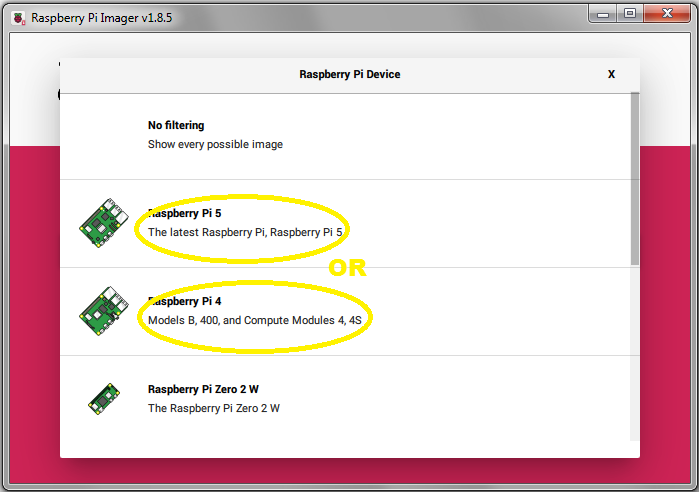
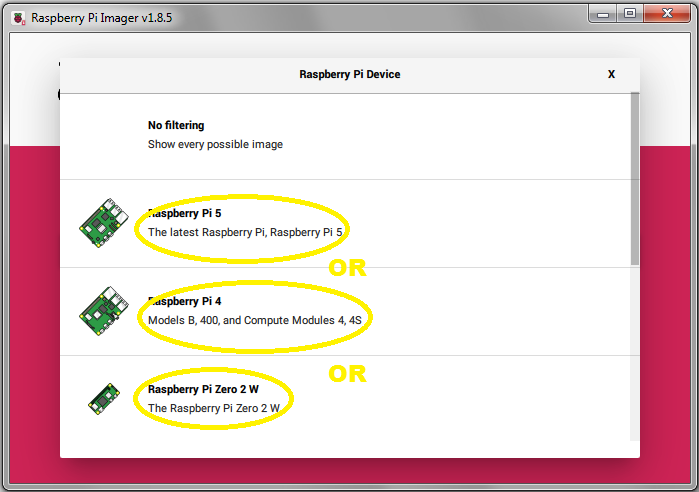
Updated to cover also RPI Zero 2W

Changed region(s): [[0.1803, 0.7317, 0.4206, 0.8841], [0.4506, 0.7317, 0.5408, 0.7927]]

diff --git a/README.md b/README.md
@@ -1,6 +1,6 @@
 # Kobra Unleashed
 
-This project is a step by step guide how to setup modified version of the original project Kobra Unleashed on a Raspberry Pi 4 or 5 (referred as RPI in this guide). The same can be used on almost all Debian based Linux host machines. The original project Kobra Unleashed can be found [here](https://github.com/anjomro/kobra-unleashed/)
+This project is a step by step guide how to setup modified version of the original project Kobra Unleashed on a Raspberry Pi 4, 5, or Zero 2W (referred as RPI in this guide). The same can be used on almost all Debian based Linux host machines. The original project Kobra Unleashed can be found [here](https://github.com/anjomro/kobra-unleashed/)
 
 ![](https://raw.githubusercontent.com/AGG2017/kobra-unleashed/master/img/kobra-unleashed-idle.png)
 
@@ -11,7 +11,7 @@ This web interface uses the interface of the firmware that is designed to be use
 ## Prerequisites
 
 - Root shell access to your Printer as described in [this guide](ROOT-ACCESS.md)
-- Linux server based on Raspberry Pi 4 or 5 hardware
+- Linux server based on Raspberry Pi 4, 5, or Zero 2W hardware (but NOT Zero W!)
   - Reachable by IPv4 from the printer
   - Port 8883 has to be opened for MQTT(S)
   - Another port of your choice (default to 5000) for the Web interface
@@ -153,7 +153,7 @@ cd ..
 nano docker-compose.yml
 ```
 
-Replace the line `ROOT_URL=http://rpi5_static_ip:5000` with `ROOT_URL=http://192.168.1.253:5000`, press `Ctrl-S` to save the file and then `Ctrl-X` to exit.
+Replace the line `ROOT_URL=http://rpi_static_ip:5000` with `ROOT_URL=http://192.168.1.253:5000`, press `Ctrl-S` to save the file and then `Ctrl-X` to exit.
 
 - Build the image kobra-unleashed
 

diff --git a/RASPBIAN-OS.md b/RASPBIAN-OS.md
@@ -10,7 +10,7 @@ This document will provide you a step by step guide how to install Raspbian OS L
 
 ![](https://raw.githubusercontent.com/AGG2017/kobra-unleashed/master/img/rpi5-1.PNG)
 
-- Select the Raspberry Pi version you want to use (4 or 5):
+- Select the Raspberry Pi version you want to use (4, 5, or 2W):
 
 ![](https://raw.githubusercontent.com/AGG2017/kobra-unleashed/master/img/rpi5-2.PNG)
 
